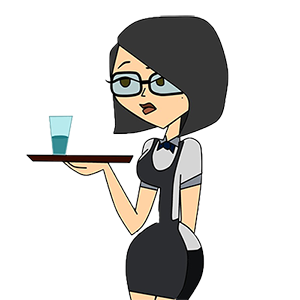
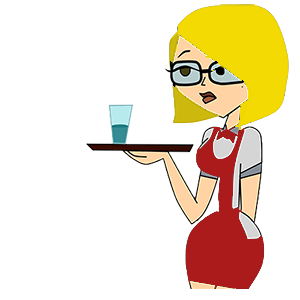
Modif de l'image de Jess, Ajout d'un case dans interact de Jessica : si Bob est déjà parti, pour ne pas restée bloquée, elle recevra un message de Bob "alreadyLeft", rédaction des fonctionnalités ajoutées dans le readme

diff --git a/build-Interface-Desktop_Qt_5_7_0_MSVC2015_64bit-Debug/ui_mainwindow.h b/build-Interface-Desktop_Qt_5_7_0_MSVC2015_64bit-Debug/ui_mainwindow.h
@@ -304,7 +304,7 @@ public:
         Bank->setScaledContents(true);
         Mine = new QLabel(frame_2);
         Mine->setObjectName(QStringLiteral("Mine"));
-        Mine->setGeometry(QRect(230, 10, 71, 61));
+        Mine->setGeometry(QRect(210, 10, 71, 61));
         Mine->setPixmap(QPixmap(QString::fromUtf8("images/gold_mine-128.png")));
         Mine->setScaledContents(true);
         Home = new QLabel(frame_2);
@@ -314,33 +314,33 @@ public:
         Home->setScaledContents(true);
         Bar = new QLabel(frame_2);
         Bar->setObjectName(QStringLiteral("Bar"));
-        Bar->setGeometry(QRect(230, 180, 81, 71));
+        Bar->setGeometry(QRect(210, 180, 81, 71));
         Bar->setPixmap(QPixmap(QString::fromUtf8("images/Cocktail-512.png")));
         Bar->setScaledContents(true);
         Piano = new QLabel(frame_2);
         Piano->setObjectName(QStringLiteral("Piano"));
-        Piano->setGeometry(QRect(320, 210, 41, 31));
+        Piano->setGeometry(QRect(290, 220, 51, 51));
         Piano->setPixmap(QPixmap(QString::fromUtf8("images/Music-Piano-icon.png")));
         Piano->setScaledContents(true);
         Toilets = new QLabel(frame_2);
         Toilets->setObjectName(QStringLiteral("Toilets"));
-        Toilets->setGeometry(QRect(370, 210, 41, 31));
+        Toilets->setGeometry(QRect(350, 220, 41, 51));
         Toilets->setPixmap(QPixmap(QString::fromUtf8("images/Toilets_unisex.svg.png")));
         Toilets->setScaledContents(true);
         Bob = new QLabel(frame_2);
         Bob->setObjectName(QStringLiteral("Bob"));
-        Bob->setGeometry(QRect(70, 250, 41, 41));
+        Bob->setGeometry(QRect(20, 220, 41, 41));
         Bob->setPixmap(QPixmap(QString::fromUtf8("images/Transparent_Minion_Bob_PNG_Picture.png")));
         Bob->setScaledContents(true);
         Elsa = new QLabel(frame_2);
         Elsa->setObjectName(QStringLiteral("Elsa"));
-        Elsa->setGeometry(QRect(10, 250, 61, 51));
+        Elsa->setGeometry(QRect(70, 210, 61, 51));
         Elsa->setPixmap(QPixmap(QString::fromUtf8("images/elsa-frozen-disney-03.png")));
         Elsa->setScaledContents(true);
         Elsa->setWordWrap(false);
         Jessica = new QLabel(frame_2);
         Jessica->setObjectName(QStringLiteral("Jessica"));
-        Jessica->setGeometry(QRect(230, 240, 61, 51));
+        Jessica->setGeometry(QRect(220, 230, 61, 51));
         Jessica->setPixmap(QPixmap(QString::fromUtf8("images/waitress.png")));
         Jessica->setScaledContents(true);
 

diff --git a/InterfaceElo/WaitressOwnedStates.cpp b/InterfaceElo/WaitressOwnedStates.cpp
@@ -67,7 +67,7 @@ void Bartend::Execute(Waitress* pWaitress)
 void Bartend::Exit(Waitress* pWaitress)
 {
 	cout << "\n" << GetNameOfEntity(pWaitress->ID()) << ": "
-		<< "I'm leaving the bar darlings!";
+        << "I'm leaving the bottles darlings!";
 }
 
 
@@ -273,6 +273,16 @@ bool InteractWithMiner::OnMessage(Waitress* pWaitress, const Telegram& msg)
 
 	switch (msg.Msg)
 	{
+    //Bob left before she can come
+    case Msg_AlreadyLeft:
+
+        SetTextColor(FOREGROUND_RED | FOREGROUND_BLUE | FOREGROUND_INTENSITY);
+        cout << "\n" << GetNameOfEntity(pWaitress->ID())
+            << ": That's too sad... He will come back soon!";
+        pWaitress->GetFSM()->RevertToPreviousState();
+        return true;
+
+    //Bob asks her some drink
 	case Msg_GiveMeADrink:
 
 		cout << "\nMessage handled by " << GetNameOfEntity(pWaitress->ID())
@@ -291,6 +301,7 @@ bool InteractWithMiner::OnMessage(Waitress* pWaitress, const Telegram& msg)
 
 		return true;
 
+    //Bob explains he had a good harvest
 	case Msg_GoodHarvest:
 
 		cout << "\nMessage handled by " << GetNameOfEntity(pWaitress->ID())
@@ -309,6 +320,7 @@ bool InteractWithMiner::OnMessage(Waitress* pWaitress, const Telegram& msg)
 
 		return true;
 
+    //Bob doesn't have any nugget to give, or just doesn't want to
 	case Msg_BadHarvest:
 	case Msg_LeaveMeAlone:
 
@@ -329,6 +341,7 @@ bool InteractWithMiner::OnMessage(Waitress* pWaitress, const Telegram& msg)
 		pWaitress->GetFSM()->RevertToPreviousState();
 		return true;
 
+    //Bob gives a nugget to Jessica
 	case Msg_TakeGold:
 
 		cout << "\nMessage handled by " << GetNameOfEntity(pWaitress->ID())

diff --git a/InterfaceElo/mainwindow.cpp b/InterfaceElo/mainwindow.cpp
@@ -25,6 +25,7 @@ MainWindow::MainWindow(QWidget *parent) :
     //seed random number generator
     srand((unsigned) time(NULL));
 
+    //locations list
     QMap<location_type, QLabel*> locations;
     locations[goldmine] = ui->Mine;
     locations[bank] = ui->Bank;
@@ -32,8 +33,6 @@ MainWindow::MainWindow(QWidget *parent) :
     locations[saloonRestroom] = ui->Toilets;
     locations[saloonPiano] = ui->Piano;
     locations[shack] = ui->Home;
-
-
 
     //create a miner
     Bob = new Miner(ent_Miner_Bob, locations, ui->Bob);
@@ -132,14 +131,17 @@ void MainWindow::setInfosByDefault(){
     Bob->SetThirst(0);
     Bob->SetFatigue(0);
     Bob->cleanLipstick();
+    Bob->GetFSM()->ChangeState(GoHomeAndSleepTilRested::Instance());
 
     //Elsa's infos
     Elsa->SetCooking(false);
+    Elsa->GetFSM()->ChangeState(DoHouseWork::Instance());
 
     //Jessica's infos
     Jessica->SetGoldTips(0);
     Jessica->SetSweat(0);
     Jessica->SetBoredom(0);
+    Jessica->GetFSM()->ChangeState(Bartend::Instance());
 
     //Clean log
     ui->log->setText("");

diff --git a/InterfaceElo/MinerOwnedStates.cpp b/InterfaceElo/MinerOwnedStates.cpp
@@ -315,7 +315,15 @@ bool QuenchThirst::OnMessage(Miner* pMiner, const Telegram& msg)
 
 		pMiner->BuyAndDrinkAWhiskey();
 
-		cout << "\n" << GetNameOfEntity(pMiner->ID()) << ": " << "That's mighty fine sippin' liquer"; 
+        cout << "\n" << GetNameOfEntity(pMiner->ID()) << ": " << "A don't need Jess... Waiter pleas', need' drink! That's mighty fine sippin' liquer";
+
+        //let the waitress know I'm leaving
+        Dispatch->DispatchMessage(0.1, //time delay
+            pMiner->ID(),        //ID of sender
+            ent_Jessica,         //ID of recipient
+            Msg_AlreadyLeft,     //the message
+            NO_ADDITIONAL_INFO);
+
 
 		pMiner->GetFSM()->ChangeState(EnterMineAndDigForNugget::Instance());
 	}//end switch

diff --git a/InterfaceElo/MessageTypes.h b/InterfaceElo/MessageTypes.h
@@ -21,6 +21,7 @@ enum message_type
   Msg_SeeYouSoon,
   Msg_AskForGold,
   Msg_NotWhatLooksLike,
+  Msg_AlreadyLeft,
 };
 
 
@@ -72,6 +73,9 @@ inline std::string MsgToStr(int msg)
 
   case Msg_NotWhatLooksLike:
       return "NotWhatLooksLike";
+
+  case Msg_AlreadyLeft:
+      return "AlreadyLeft";
 
   default:
 

diff --git a/build-Interface-Desktop_Qt_5_7_0_MSVC2015_64bit-Debug/ui_configdialog.h b/build-Interface-Desktop_Qt_5_7_0_MSVC2015_64bit-Debug/ui_configdialog.h
@@ -101,6 +101,7 @@ public:
 
         sb_iteration = new QSpinBox(frame);
         sb_iteration->setObjectName(QStringLiteral("sb_iteration"));
+        sb_iteration->setMinimum(1);
         sb_iteration->setMaximum(50);
         sb_iteration->setValue(30);
 
